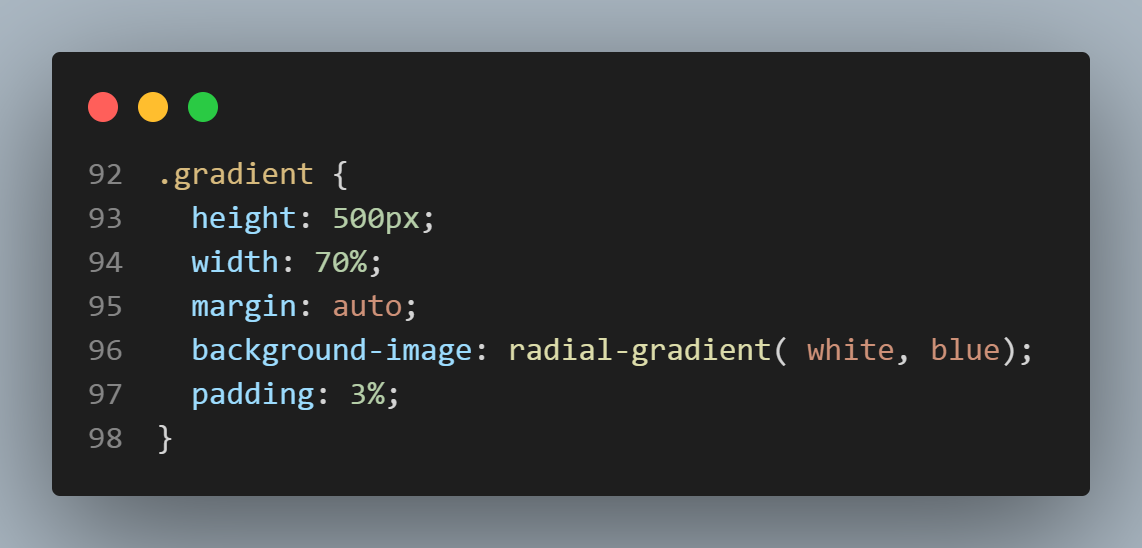
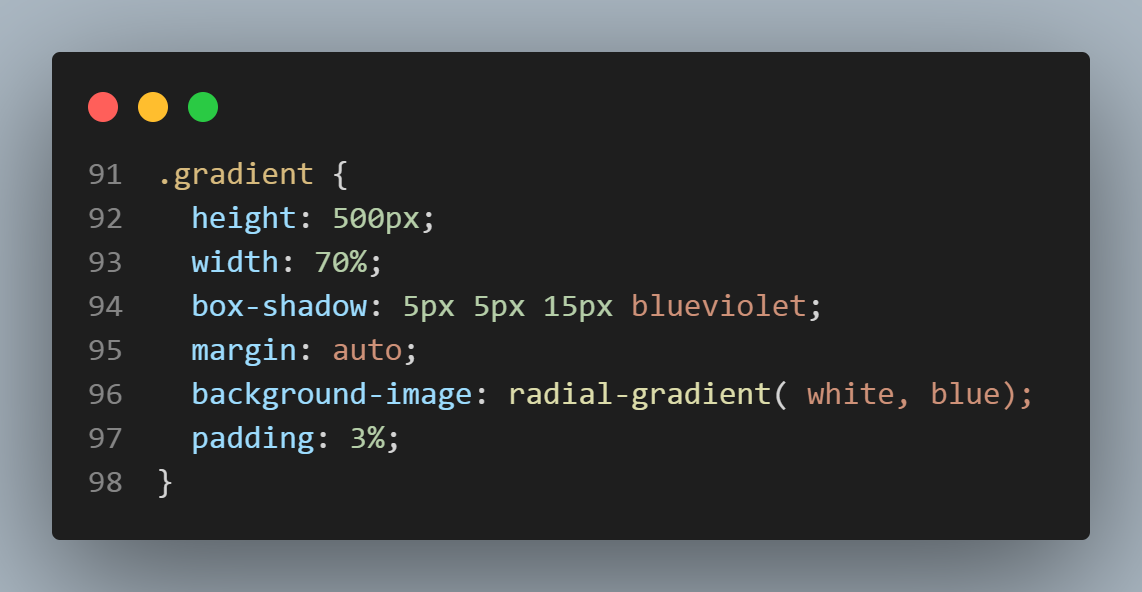
Typography start.

diff --git a/m2-css-only/continuing.html b/m2-css-only/continuing.html
@@ -12,7 +12,7 @@
 
         <header>
             <h3 style="margin-bottom: 0%; color: rgb(166, 247, 253);">
-                "HTML5 e CSS3 - Módulo 2" <br>CSS Base Page (all topics in one page)
+                "HTML5 e CSS3 - Módulo 2" <br>CSS Base Page (all topics in one page to be divided later in topics (HTML &lt;article classes&gt; here) and form a website)
             </h3>
             <p style="margin-top: 0%;">"Curso em Vídeo"<br>This is the student's notebook of Ricardo Barros Becheli.<br>
                 <a href="mailto:ricardobarrosbecheli@gmail.com"> <img src="https://img.shields.io/badge/Gmail-D14836?style=for-the-badge&logo=gmail&logoColor=white"/></a>
@@ -189,7 +189,7 @@
                     <img src="assets/gradient-css-code.png" width="50%" alt="gradient code.">
 
                     <p>
-                        The div class is called <q>gradient</q>.
+                        The div class is called <q>gradient</q> and displays a bonus violet <q>box-shadow</q>
                     </p>
 
                     <p>
@@ -212,7 +212,7 @@
             </p>
 
         <h2>
-            End of the colors article.
+            End of the colors &lt;article class&gt;.
         </h2>
 </article>
 
@@ -221,21 +221,30 @@
     <h1 id="typography">
         2) Typography
     </h1>
-            <p style="font-family: 'Courier New', Courier, monospace;">
-                Lorem ipsum dolor, sit amet consectetur adipisicing elit. Deleniti cumque amet perspiciatis eos dolorem molestiae cupiditate sapiente deserunt, autem voluptas voluptatibus consequatur magni et error illum qui adipisci, obcaecati ad.
+            <p>
+                <blockquote cite="https://en.wikipedia.org/wiki/Typography">Typography is the art and technique of arranging type to make written language readable and <strong>appealing</strong> when displayed. The arrangement of type involves selecting typefaces, point sizes, line lengths, line-spacing (leading), and letter-spacing (tracking), as well as adjusting the space between pairs of letters (kerning). The term typography is also applied to the style, arrangement, and appearance of the letters, numbers, and symbols created by the process.</blockquote>
             </p>
 
             <p>
-                ...
+                The above quotation from <a href="https://en.wikipedia.org/wiki/Typography" target="_blank" rel="noopener noreferrer">wikipedia</a> gives us a hint that, as well as colors, typefaces can cause some level of emotios, feelings, to the reader. And continuing with Wikipedia:
             </p>
     
+            <blockquote>
+                <p>
+                Typography has long been a vital part of promotional material and advertising. Designers often use typefaces to set a theme and mood in an advertisement (for example, using bold, large text to convey a particular message to the reader).[49] Choice of typeface is often used to draw attention to a particular advertisement, combined with efficient use of color, shapes, and images. Today, typography in advertising often reflects a company's brand.
+                </p>
+                <p>A brand may use typography to express its theme, personality, and message. Just by looking at the typeface, viewers can get an idea about the message and personality of the brand, which the brands are fully aware of and are tapping into the power of good typography.
+                </p>
+                <p>Typefaces used in advertisements convey different messages to the reader: classical ones are for a strong personality, while more modern ones may convey clean, neutral look. Bold typefaces are used for making statements and attracting attention. In any design, a balance has to be achieved between the visual impact and communication aspects. Digital technology in the twentieth and twenty-first centuries has enabled the creation of typefaces for advertising that are more experimental than traditional typefaces.
+                </p>
+            </blockquote>
+                
             <p>
-                ...
+                Please, read id directly from <a href="http://en.wikipedia.org/wiki/Web_typography" target="_blank" rel="noopener noreferrer">Wikipedia</a>:
             </p>
-    
-            <p>
-                ...
-            </p>
+
+            <iframe src="https://en.wikipedia.org/wiki/Web_typography"height="300" width="100%" style="border:1px solid black;"></iframe>
+
     
             <p>
                 ...

diff --git a/m2-css-only/m2.css b/m2-css-only/m2.css
@@ -91,6 +91,7 @@ figure {
     .gradient {
       height: 500px;
       width: 70%;
+      box-shadow: 5px 5px 15px blueviolet;
       margin: auto;
       background-image: radial-gradient( white, blue);
       padding: 3%;
